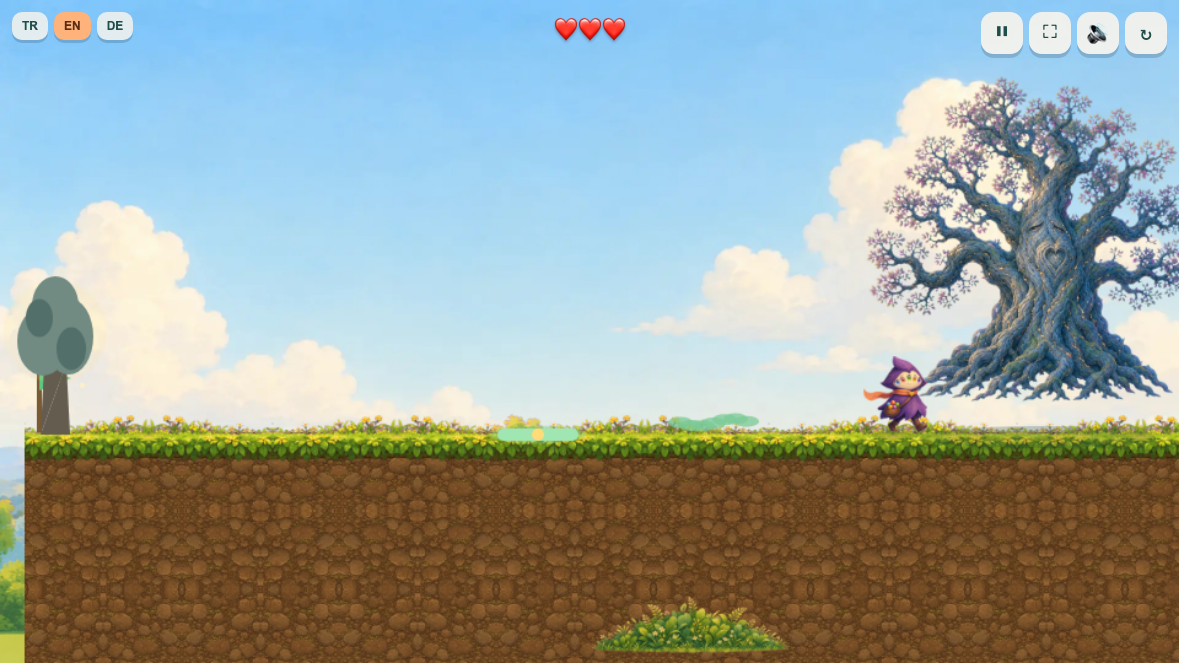
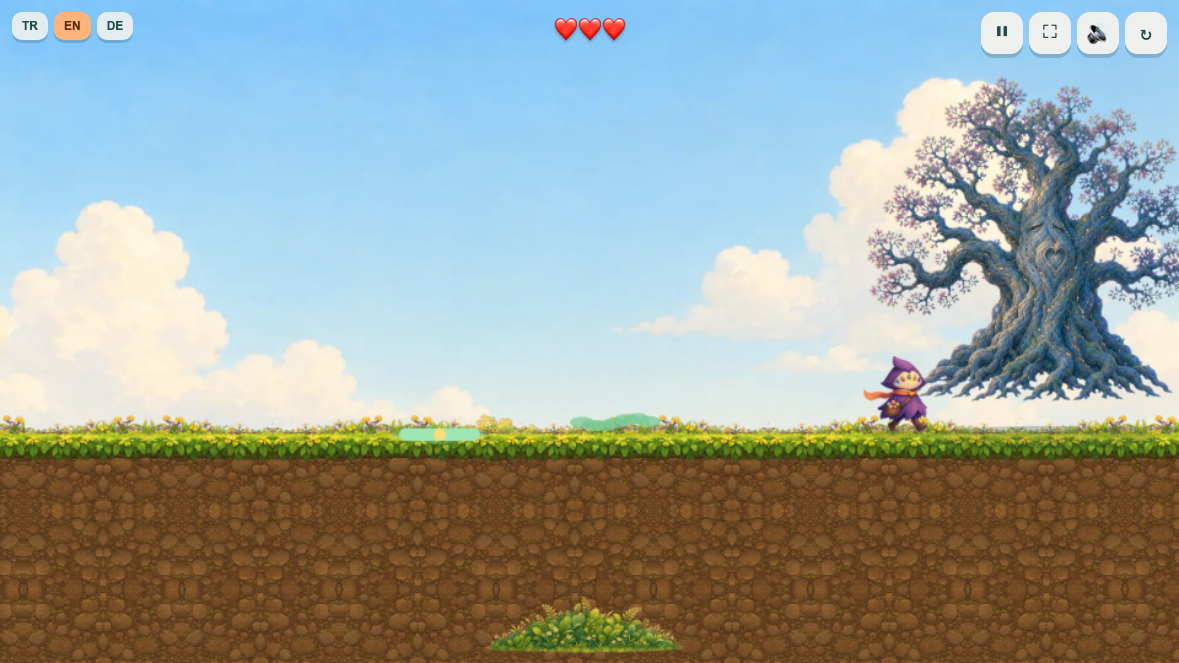
feat: make Meadow puzzles essential and polish the slice

Changed region(s): [[0.0, 0.4223, 0.0916, 1.0], [0.3969, 0.905, 0.6718, 0.9955], [0.3359, 0.6033, 0.6412, 0.6938]]

diff --git a/src/game/LevelScene.ts b/src/game/LevelScene.ts
@@ -234,28 +234,30 @@ export class LevelScene extends Scene {
   }
   private beginMeadowRestoration(): void {
     if (this.meadowStory.restoring > 0) return;
+    const oakX = this.L.trees.find(tr => tr.x > 2800)?.x ?? 3005;
     this.meadowStory.restoring = .001;
     this.meadowStory.restoreCue = 0;
-    this.spawnP(2925, 230, 70, 0xffe59a, 250, 2.6);
-    this.spawnP(2840, 310, 45, 0x8fe3a8, 180, 2.4);
+    this.spawnP(oakX, 230, 70, 0xffe59a, 250, 2.6);
+    this.spawnP(oakX - 85, 310, 45, 0x8fe3a8, 180, 2.4);
     setMusicMood('restored'); sfx('wake'); this.flash(500, 255, 235, 175);
     this.hooks.ui.showHint(S('meadow.restored'), 3.2);
   }
   private updateMeadowRestoration(dt: number): boolean {
     if (this.meadowStory.restoring <= 0) return false;
     const story = this.meadowStory;
+    const oakX = this.L.trees.find(tr => tr.x > 2800)?.x ?? 3005;
     story.restoring += dt;
     if (story.restoreCue === 0 && story.restoring >= .75) {
       story.restoreCue = 1; sfx('grow');
-      this.spawnP(2925, 328, 44, 0x8fe3a8, 190, 2.1);
+      this.spawnP(oakX, 328, 44, 0x8fe3a8, 190, 2.1);
     }
     if (story.restoreCue === 1 && story.restoring >= 1.55) {
       story.restoreCue = 2; sfx('streak'); this.flash(360, 255, 215, 110);
-      this.spawnP(2925, 185, 64, 0xffe27a, 230, 2.2);
+      this.spawnP(oakX, 185, 64, 0xffe27a, 230, 2.2);
     }
     if (story.restoreCue === 2 && story.restoring >= 2.55) {
       story.restoreCue = 3; sfx('clear');
-      for (let x = 2500; x <= 3020; x += 80) this.spawnP(x, 330, 14, x % 160 ? 0x9fe6b3 : 0xffe59a, 155, 1.8);
+      for (let x = 2500; x <= this.L.w - 20; x += 80) this.spawnP(x, 330, 14, x % 160 ? 0x9fe6b3 : 0xffe59a, 155, 1.8);
     }
     /* A brief, non-interactive finale makes the causal chain legible: helper →
        roots → oak → whole meadow. The camera settles instead of snapping. */
@@ -841,22 +843,36 @@ export class LevelScene extends Scene {
       g.fillStyle(0xfff3c4, .8);
       for (let k = 0; k < 4; k++) { const ph = (this.t * .35 + k * .25) % 1; g.fillCircle(x + Math.sin(this.t * 1.3 + k * 2.2) * 22, y - 28 - ph * 92, 2.2); }
     }
-    const trunkH = crown === 'tall' || crown === 'palm' ? 72 : 56, trunkW = crown === 'tall' ? 16 : 18;
+    const trunkH = crown === 'tall' || crown === 'palm' ? 78 : 62, trunkW = crown === 'tall' ? 18 : 20;
+    g.fillStyle(0x173e35, .14); g.fillEllipse(x, y + 3, crown === 'tall' ? 68 : 58, 10);
     g.fillStyle(tr.awake ? (crown === 'tall' ? 0xcdbd90 : 0x7d5a3a) : 0x655c50, 1);
     g.fillTriangle(x - trunkW / 2 - 3, y + 2, x - trunkW / 2, y - trunkH, x + trunkW / 2, y - trunkH);
     g.fillTriangle(x - trunkW / 2 - 3, y + 2, x + trunkW / 2, y - trunkH, x + trunkW / 2 + 3, y + 2);
+    /* A visible fork and root flare keep the learning trees organic even when
+       their colours are muted asleep. */
+    g.lineStyle(7, tr.awake ? 0x806044 : 0x655c50, 1);
+    g.beginPath(); g.moveTo(x, y - trunkH + 34); g.lineTo(x - 22, y - trunkH - 4);
+    g.moveTo(x + 1, y - trunkH + 27); g.lineTo(x + 24, y - trunkH - 12); g.strokePath();
+    g.fillStyle(tr.awake ? 0x806044 : 0x655c50, 1);
+    g.fillTriangle(x - 22, y + 2, x - 4, y - 22, x - 2, y + 2);
+    g.fillTriangle(x + 22, y + 2, x + 4, y - 24, x + 2, y + 2);
     const cols = LEAF_COLOR[tr.id] || ['#63c49b', '#4fae87'];
     const leafA = tr.awake ? this.col(cols[0]) : 0x718b82;
     const leafB = tr.awake ? this.col(cols[1]) : 0x526f69;
     if (crown === 'tall') {
-      g.fillStyle(leafA, 1); g.fillCircle(x - 16, y - trunkH - 18, 20); g.fillCircle(x + 16, y - trunkH - 18, 20); g.fillCircle(x, y - trunkH - 44, 24); g.fillCircle(x, y - trunkH - 14, 22);
-      g.fillStyle(leafB, 1); g.fillCircle(x + 10, y - trunkH - 34, 13);
+      g.fillStyle(leafB, 1); g.fillEllipse(x, y - trunkH - 24, 78, 58);
+      g.fillCircle(x - 29, y - trunkH - 17, 22); g.fillCircle(x + 31, y - trunkH - 22, 25);
+      g.fillStyle(leafA, 1); g.fillCircle(x - 20, y - trunkH - 39, 26); g.fillCircle(x + 16, y - trunkH - 47, 29);
+      g.fillCircle(x - 2, y - trunkH - 68, 25); g.fillCircle(x + 34, y - trunkH - 49, 18);
+      g.fillStyle(tr.awake ? 0xb7df83 : 0x81958f, .65);
+      g.fillCircle(x - 25, y - trunkH - 49, 8); g.fillCircle(x + 8, y - trunkH - 69, 7); g.fillCircle(x + 31, y - trunkH - 35, 6);
     } else if (crown === 'oval') {
-      g.fillStyle(leafA, 1);
-      g.fillEllipse(x - 10, y - trunkH - 18, 42, 56); g.fillEllipse(x + 11, y - trunkH - 22, 40, 62);
-      g.fillEllipse(x, y - trunkH - 47, 38, 48);
-      g.fillStyle(leafB, 1);
-      g.fillEllipse(x + 13, y - trunkH - 12, 24, 35); g.fillEllipse(x - 13, y - trunkH - 37, 22, 31);
+      g.fillStyle(leafB, 1); g.fillEllipse(x, y - trunkH - 28, 72, 88);
+      g.fillEllipse(x - 27, y - trunkH - 19, 34, 58); g.fillEllipse(x + 27, y - trunkH - 23, 35, 62);
+      g.fillStyle(leafA, 1); g.fillEllipse(x - 13, y - trunkH - 49, 39, 55);
+      g.fillEllipse(x + 15, y - trunkH - 53, 41, 60); g.fillEllipse(x, y - trunkH - 76, 34, 43);
+      g.fillStyle(tr.awake ? 0xc9efb0 : 0x81958f, .58);
+      g.fillCircle(x - 19, y - trunkH - 61, 7); g.fillCircle(x + 11, y - trunkH - 77, 6); g.fillCircle(x + 28, y - trunkH - 43, 6);
     } else if (crown === 'conifer') {
       g.fillStyle(leafA, 1);
       g.fillTriangle(x - 30, y - trunkH + 6, x + 30, y - trunkH + 6, x, y - trunkH - 34);

diff --git a/src/core/levels.ts b/src/core/levels.ts
@@ -4,23 +4,23 @@ import { makeSection } from './generator';
 
 export function level1(): LevelData {
   return {
-    name: 'Bölüm 1 · İlk Adımlar', w: 3040, deathY: 700, gentle: true, spawn: { x: 90, y: 300 },
+    name: 'Bölüm 1 · İlk Adımlar', w: 3120, deathY: 700, gentle: true, spawn: { x: 90, y: 300 },
     platforms: [
-      { x: 20, y: 380, w: 380, h: 240 }, { x: 520, y: 370, w: 300, h: 240 }, { x: 1080, y: 370, w: 460, h: 240 },
-      { x: 1618, y: 360, w: 160, h: 242 }, { x: 1860, y: 355, w: 160, h: 245 }, { x: 2100, y: 352, w: 940, h: 252 },
+      { x: 20, y: 380, w: 380, h: 240 }, { x: 520, y: 370, w: 300, h: 240 }, { x: 1080, y: 370, w: 410, h: 240 },
+      { x: 1695, y: 360, w: 135, h: 242 }, { x: 2050, y: 352, w: 130, h: 248 }, { x: 2180, y: 352, w: 940, h: 252 },
     ],
     water: { x: 760, top: 470, w: 320 },
     interact: [
       { type: 'freeze', eye: 'blue', done: false, zone: { x: 660, y: 300, w: 200, h: 150 }, ice: { x: 760, y: 370, w: 320, h: 40 } },
-      { type: 'grow', eye: 'green', done: false, zone: { x: 1320, y: 278, w: 170, h: 110 }, sprout: { x: 1450, y: 370 }, leaves: [{ x: 1515, y: 354, w: 86, h: 18 }, { x: 1588, y: 350, w: 86, h: 18 }], em: { x: 1450, y: 322 } },
-      { type: 'bridge', eye: 'yellow', done: false, zone: { x: 1660, y: 270, w: 170, h: 110 }, bridge: { x: 1755, y: 348, w: 125, h: 18 }, ropeX: 1818, anchorY: 245, em: { x: 1818, y: 302 } },
+      { type: 'grow', eye: 'green', done: false, zone: { x: 1320, y: 278, w: 170, h: 110 }, sprout: { x: 1450, y: 370 }, leaves: [{ x: 1485, y: 354, w: 105, h: 18 }, { x: 1580, y: 354, w: 115, h: 18 }], em: { x: 1450, y: 322 } },
+      { type: 'bridge', eye: 'yellow', done: false, zone: { x: 1695, y: 270, w: 135, h: 110 }, bridge: { x: 1825, y: 348, w: 225, h: 18 }, ropeX: 1935, anchorY: 245, em: { x: 1762, y: 302 } },
     ],
-    trees: [{ id: 'çınar', x: 585, y: 370 }, { id: 'ıhlamur', x: 2125, y: 352 }, { id: 'meşe', x: 2925, y: 352 }],
+    trees: [{ id: 'çınar', x: 585, y: 370 }, { id: 'ıhlamur', x: 2125, y: 352 }, { id: 'meşe', x: 3005, y: 352 }],
     monsters: [
       { x: 1210, gx0: 1100, gx1: 1450, ground: 370, lo: 1088, hi: 1530, spd: 82, aggro: 185, patrolSpd: 36 },
     ],
     boss: null, arena: null,
-    checkpoints: [{ x: 560, y: 370 }, { x: 1125, y: 370 }, { x: 2112, y: 352 }],
+    checkpoints: [{ x: 560, y: 370 }, { x: 1125, y: 370 }, { x: 2080, y: 352 }],
     goal: null, hasSand: true, hasHeal: true,
     intros: [
       { x: 170, text: 'Çayır çok sessiz… birlikte dinleyelim.  ←  →' },

diff --git a/tests/core.test.ts b/tests/core.test.ts
@@ -93,6 +93,28 @@ describe('ödüllük Çayır dikey kesiti', () => {
     expect(lv.trees.some(t => t.id === 'meşe' && t.x > 2800)).toBe(true);
     expect(lv.intros.some(i => i.text.includes('kötü değil'))).toBe(true);
   });
+  it('üç doğa bulmacasının hiçbiri normal bir sıçrayışla atlanamaz', () => {
+    const lv = prepLevel(0);
+    const [freeze, grow, bridge] = lv.interact as any[];
+    const requiredGaps = [[lv.platforms[1], lv.platforms[2]], [lv.platforms[2], lv.platforms[3]], [lv.platforms[3], lv.platforms[4]]];
+    for (const [left, right] of requiredGaps) {
+      expect(right.x - (left.x + left.w)).toBeGreaterThan(200);
+    }
+    expect(freeze.ice.x).toBeLessThanOrEqual(lv.platforms[1].x + lv.platforms[1].w);
+    expect(freeze.ice.x + freeze.ice.w).toBeGreaterThanOrEqual(lv.platforms[2].x);
+    expect(grow.leaves[0].x).toBeLessThanOrEqual(lv.platforms[2].x + lv.platforms[2].w);
+    expect(grow.leaves.at(-1).x + grow.leaves.at(-1).w).toBeGreaterThanOrEqual(lv.platforms[3].x);
+    expect(bridge.bridge.x).toBeLessThanOrEqual(lv.platforms[3].x + lv.platforms[3].w);
+    expect(bridge.bridge.x + bridge.bridge.w).toBeGreaterThanOrEqual(lv.platforms[4].x);
+  });
+  it('restorasyon kadrajı ikincil ağacı dışarıda bırakıp antik meşeyi odakta tutar', () => {
+    const lv = prepLevel(0), finaleCam = lv.w - CONFIG.canvas.W;
+    const secondary = lv.trees.find(t => t.id === 'ıhlamur')!;
+    const oak = lv.trees.find(t => t.id === 'meşe')!;
+    expect(secondary.x).toBeLessThan(finaleCam - 20);
+    expect(oak.x - finaleCam).toBeGreaterThan(760);
+    expect(oak.x - finaleCam).toBeLessThan(900);
+  });
 });
 
 describe('bölüm üretici', () => {

diff --git a/src/main.ts b/src/main.ts
@@ -110,7 +110,7 @@ void Promise.all([preloadArt(), initPurchases()]).finally(() => {
     const s = scene as any;
     const finalTree = s.L.trees.find((tree: any) => tree.x > 2800);
     s.meadowStory.pressureAwake = true;
-    s.player.x = 2790; s.player.y = 292; s.player.vx = 0; s.player.vy = 0;
+    s.player.x = finalTree.x - 135; s.player.y = 292; s.player.vx = 0; s.player.vy = 0;
     s.cam = s.L.w - CONFIG.canvas.W; s.cameras.main.setScroll(s.cam, 0);
     if (stage === 'oak-awake') {
       finalTree.awake = true; s.meadowStory.restoring = 1.72; s.meadowStory.restoreCue = 2;
@@ -126,6 +126,6 @@ void Promise.all([preloadArt(), initPurchases()]).finally(() => {
    scripts (device matrix, design pack) can drive screens directly (never
    active for players). */
 if (bootParams.has('test')) {
-  (window as any).__ckk = { ui, startLevel, art: artHelpers };
+  (window as any).__ckk = { ui, startLevel, getScene: () => scene, art: artHelpers };
 }
 export { game, sfx };
